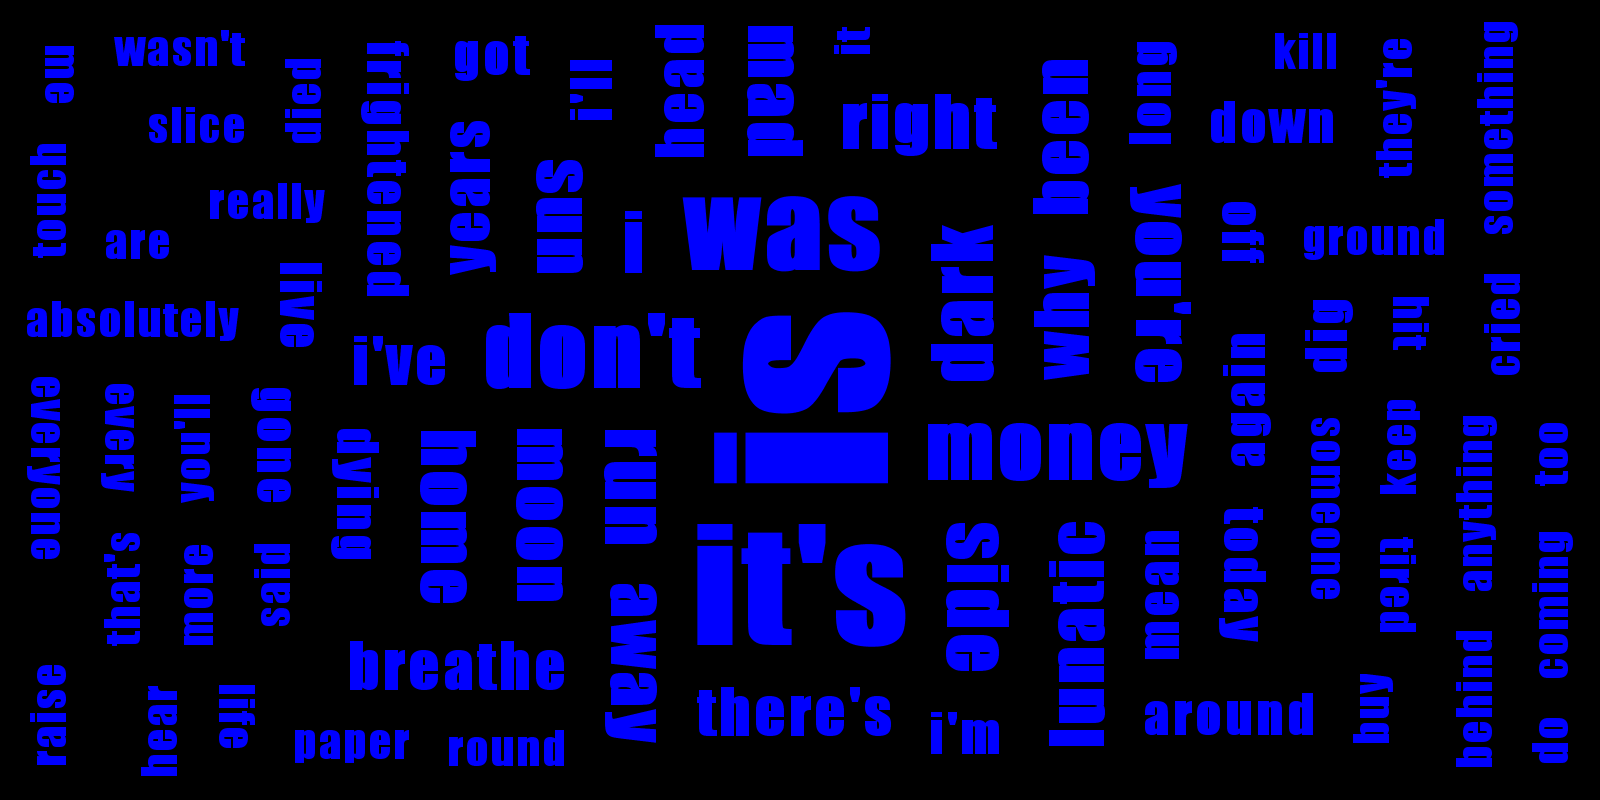
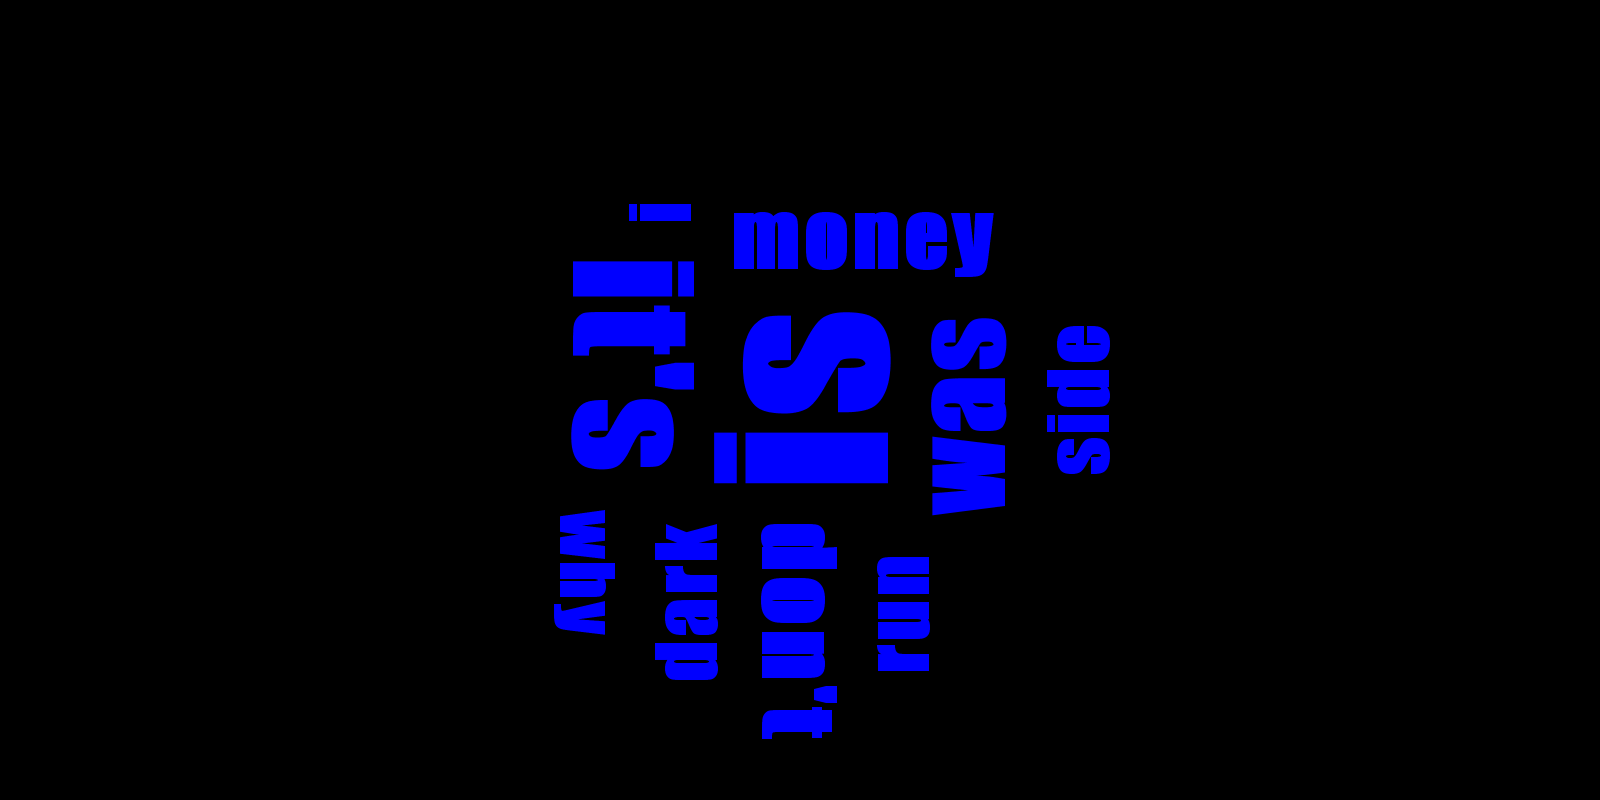
trying to get testing working

diff --git a/src/java/wckit/java/filter/TopEnglishWordsFilter.java b/src/java/wckit/java/filter/TopEnglishWordsFilter.java
@@ -1,37 +1,37 @@
-//package wckit.java.filter;
-//
-//import com.kennycason.kumo.nlp.filter.Filter;
-//import com.kennycason.kumo.nlp.filter.StopWordFilter;
-//import org.apache.commons.io.IOUtils;
-//
-//import java.io.File;
-//import java.io.FileInputStream;
-//import java.io.IOException;
-//import java.util.List;
-//
-//public class TopEnglishWordsFilter extends Filter {
-//
-//    private final StopWordFilter coreFilter;
-//
-//    public TopEnglishWordsFilter() {
-//        this.coreFilter = new StopWordFilter(getTopWords());
-//    }
-//
-//    private List<String> getTopWords() {
-//        try {
-//            return IOUtils.readLines(
-//                new FileInputStream(
-//                    new File("resources/freedata/top100EnglishWords.txt")));
-////                this.getClass()
-////                .getResourceAsStream("resources/freedata/top100EnglishWords.txt"));
-//        } catch (IOException e) {
-//            throw new RuntimeException("Problem retrieving top 100 english words resource data.");
-//        }
-//    }
-//
-//
-//    @Override
-//    public boolean apply(String s) {
-//        return coreFilter.apply(s);
-//    }
-//}
+package wckit.java.filter;
+
+import com.kennycason.kumo.nlp.filter.Filter;
+import com.kennycason.kumo.nlp.filter.StopWordFilter;
+import org.apache.commons.io.IOUtils;
+
+import java.io.File;
+import java.io.FileInputStream;
+import java.io.IOException;
+import java.util.List;
+
+public class TopEnglishWordsFilter extends Filter {
+
+    private final StopWordFilter coreFilter;
+
+    public TopEnglishWordsFilter() {
+        this.coreFilter = new StopWordFilter(getTopWords());
+    }
+
+    private List<String> getTopWords() {
+        try {
+            return IOUtils.readLines(
+                new FileInputStream(
+                    new File("resources/freedata/top100EnglishWords.txt")));
+//                this.getClass()
+//                .getResourceAsStream("resources/freedata/top100EnglishWords.txt"));
+        } catch (IOException e) {
+            throw new RuntimeException("Problem retrieving top 100 english words resource data.");
+        }
+    }
+
+
+    @Override
+    public boolean apply(String s) {
+        return coreFilter.apply(s);
+    }
+}

diff --git a/src/java/wckit/java/builder/WCBuilder.java b/src/java/wckit/java/builder/WCBuilder.java
@@ -27,7 +27,7 @@ import com.kennycason.kumo.wordstart.WordStartStrategy;
 import org.apache.commons.lang3.StringUtils;
 import wckit.java.core.IWCKit;
 import wckit.java.filter.FilterType;
-//import wckit.java.filter.TopEnglishWordsFilter;
+import wckit.java.filter.TopEnglishWordsFilter;
 
 import java.awt.Color;
 import java.awt.Dimension;
@@ -167,9 +167,9 @@ public class WCBuilder {
                 frequencyAnalyzer.addNormalizer(buildNormalizer(normalizer));
             }
 
-//            for (final FilterType filter : this.wcKit.getFilters()) {
-//                frequencyAnalyzer.addFilter(buildFilter(filter));
-//            }
+            for (final FilterType filter : this.wcKit.getFilters()) {
+                frequencyAnalyzer.addFilter(buildFilter(filter));
+            }
 
             frequencyAnalyzer.setWordTokenizer(buildTokenizer());
 
@@ -212,14 +212,14 @@ public class WCBuilder {
         }
     }
 
-//    private Filter buildFilter(FilterType filter) {
-//        switch(filter) {
-//            case TOP_ENGLISH:
-//                return new TopEnglishWordsFilter();
-//            default:
-//                throw new IllegalStateException("Unknown filter: " + filter);
-//        }
-//    }
+    private Filter buildFilter(FilterType filter) {
+        switch(filter) {
+            case TOP_ENGLISH:
+                return new TopEnglishWordsFilter();
+            default:
+                throw new IllegalStateException("Unknown filter: " + filter);
+        }
+    }
 
     private KumoFont buildKumoFont(FontWeight fontWeight) {
         return new KumoFont(this.wcKit.getFontType(), fontWeight);

diff --git a/src/java/wckit/java/examples/SimpleExamples.java b/src/java/wckit/java/examples/SimpleExamples.java
@@ -17,6 +17,7 @@ public class SimpleExamples {
             core.createNew()
                 .input(Arrays.asList("./resources/freedata/pinkfloyd.txt"))
                 .backgroundColor("black")
+                .wordCount(10L)
                 .color("blue")
                 .fontSizeMin(20L)
                 .fontSizeMax(220L)
